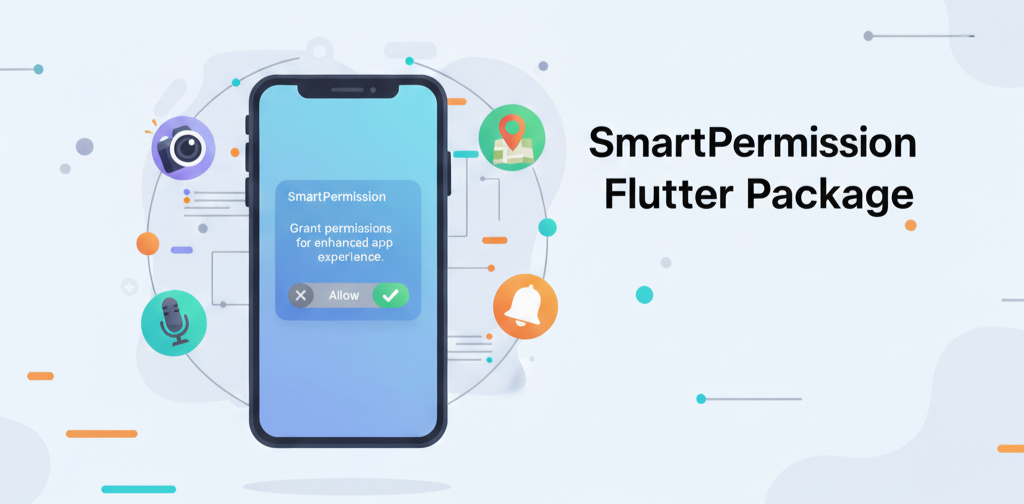
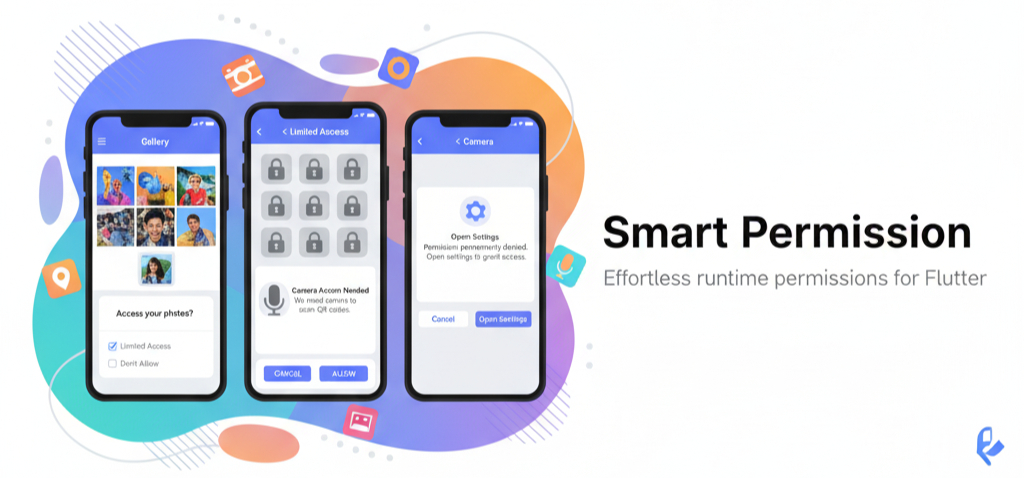
refactor: Improve async safety and remove deprecated permission
- Add `context.mounted` checks before showing dialogs to prevent crashes in async gaps.
- Remove the deprecated `Permission.calendar`, which has been split into `calendarWriteOnly` and `calendarFullAccess`.
- Simplify package description in `pubspec.yaml` and reformat comments.
- Update example code with improved formatting.

diff --git a/lib/smart_permission.dart b/lib/smart_permission.dart
@@ -1,40 +1,40 @@
-/// smart_permission
-///
-/// A tiny, opinionated wrapper around `permission_handler` that:
-/// - Requests a single or multiple permissions with one call
-/// - Shows Material/Cupertino/adaptive dialogs for denied/permanently denied
-/// - Offers settings redirection for permanently denied
-/// - Provides configurable theming (light/dark, primaryColor)
-/// - Supplies built‑in per‑permission titles and descriptions with easy overrides
-/// - Re‑exports `Permission` so consumers only import this package
-///
-/// Quick start:
-/// ```dart
-/// import 'package:smart_permission/smart_permission.dart';
-///
-/// // Optional global setup
-/// SmartPermission.config
-///   ..brightness = Brightness.dark
-///   ..primaryColor = const Color(0xFF6750A4)
-///   ..titleProvider = (p) => p == Permission.location ? 'Location Access' : null
-///   ..descriptionProvider = (p) => p == Permission.location
-///       ? 'We need location to show nearby stores.'
-///       : null;
-///
-/// // Single permission
-/// final ok = await SmartPermission.request(
-///   context,
-///   permission: Permission.camera,
-///   style: PermissionDialogStyle.adaptive,
-///   description: 'We need camera to scan QR codes.',
-/// );
-///
-/// // Multiple permissions
-/// final results = await SmartPermission.requestMultiple(
-///   context,
-///   permissions: [Permission.camera, Permission.microphone],
-/// );
-/// ```
+// Smart Permission
+//
+// A tiny, opinionated wrapper around `permission_handler` that:
+// - Requests a single or multiple permissions with one call
+// - Shows Material/Cupertino/adaptive dialogs for denied/permanently denied
+// - Offers settings redirection for permanently denied
+// - Provides configurable theming (light/dark, primaryColor)
+// - Supplies built‑in per‑permission titles and descriptions with easy overrides
+// - Re‑exports `Permission` so consumers only import this package
+//
+// Quick start:
+// ```dart
+// import 'package:smart_permission/smart_permission.dart';
+//
+// // Optional global setup
+// SmartPermission.config
+//   ..brightness = Brightness.dark
+//   ..primaryColor = const Color(0xFF6750A4)
+//   ..titleProvider = (p) => p == Permission.location ? 'Location Access' : null
+//   ..descriptionProvider = (p) => p == Permission.location
+//       ? 'We need location to show nearby stores.'
+//       : null;
+//
+// // Single permission
+// final ok = await SmartPermission.request(
+//   context,
+//   permission: Permission.camera,
+//   style: PermissionDialogStyle.adaptive,
+//   description: 'We need camera to scan QR codes.',
+// );
+//
+// // Multiple permissions
+// final results = await SmartPermission.requestMultiple(
+//   context,
+//   permissions: [Permission.camera, Permission.microphone],
+// );
+// ```
 export 'src/ui/permission_dialog_style.dart';
 export 'src/smart_permission_public.dart';
 export 'package:permission_handler/permission_handler.dart'

diff --git a/example/lib/main.dart b/example/lib/main.dart
@@ -76,19 +76,24 @@ class _ExampleAppState extends State<ExampleApp> {
               SmartPermission.config
                 ..titleProvider = (p) {
                   if (p == Permission.camera) return 'Camera Access Needed';
-                  if (p == Permission.microphone)
+                  if (p == Permission.microphone) {
                     return 'Microphone Access Needed';
-                  if (p == Permission.locationWhenInUse)
+                  }
+                  if (p == Permission.locationWhenInUse) {
                     return 'Location Access Needed';
+                  }
                   return null;
                 }
                 ..descriptionProvider = (p) {
-                  if (p == Permission.camera)
+                  if (p == Permission.camera) {
                     return 'We need the camera to scan QR codes.';
-                  if (p == Permission.microphone)
+                  }
+                  if (p == Permission.microphone) {
                     return 'We need the microphone for voice features.';
-                  if (p == Permission.locationWhenInUse)
+                  }
+                  if (p == Permission.locationWhenInUse) {
                     return 'We use your location to show nearby stores.';
+                  }
                   return null;
                 };
             } else {

diff --git a/lib/src/core/config.dart b/lib/src/core/config.dart
@@ -71,7 +71,6 @@ class SmartPermissionConfig {
 
   // Built-in defaults for titles and descriptions per permission.
   final Map<Permission, String> _defaultTitles = <Permission, String>{
-    Permission.calendar: 'Calendar Access',
     Permission.calendarWriteOnly: 'Calendar Write Access',
     Permission.calendarFullAccess: 'Calendar Full Access',
     Permission.camera: 'Camera Access',
@@ -114,7 +113,6 @@ class SmartPermissionConfig {
   };
 
   final Map<Permission, String> _defaultDescriptions = <Permission, String>{
-    Permission.calendar: 'Allow access to read your calendar events.',
     Permission.calendarWriteOnly: 'Allow writing new events to your calendar.',
     Permission.calendarFullAccess:
         'Allow full read/write access to your calendars.',
@@ -175,8 +173,9 @@ class SmartPermissionConfig {
 
   String? resolveDescription(
       Permission permission, String? explicitDescription) {
-    if (explicitDescription != null && explicitDescription.isNotEmpty)
+    if (explicitDescription != null && explicitDescription.isNotEmpty) {
       return explicitDescription;
+    }
     final provider = descriptionProvider;
     if (provider != null) return provider(permission);
     // Built-in default

diff --git a/lib/src/core/smart_permission_core.dart b/lib/src/core/smart_permission_core.dart
@@ -33,6 +33,7 @@ class SmartPermissionCore {
       final rationale = cfg.resolveDescription(permission, message);
       final dialog = cfg.customDialogBuilder ?? showPermissionDialog;
       final resolvedTitle = cfg.resolveTitle(permission, title);
+      if (!context.mounted) return false;
       final retry = await dialog(
         context,
         style: style,
@@ -53,6 +54,7 @@ class SmartPermissionCore {
     if (requested.isPermanentlyDenied || requested.isRestricted) {
       final cfg = SmartPermissionConfig.instance;
       final dialog = cfg.customDialogBuilder ?? showPermissionDialog;
+      if (!context.mounted) return false;
       final open = await dialog(
         context,
         style: style,
